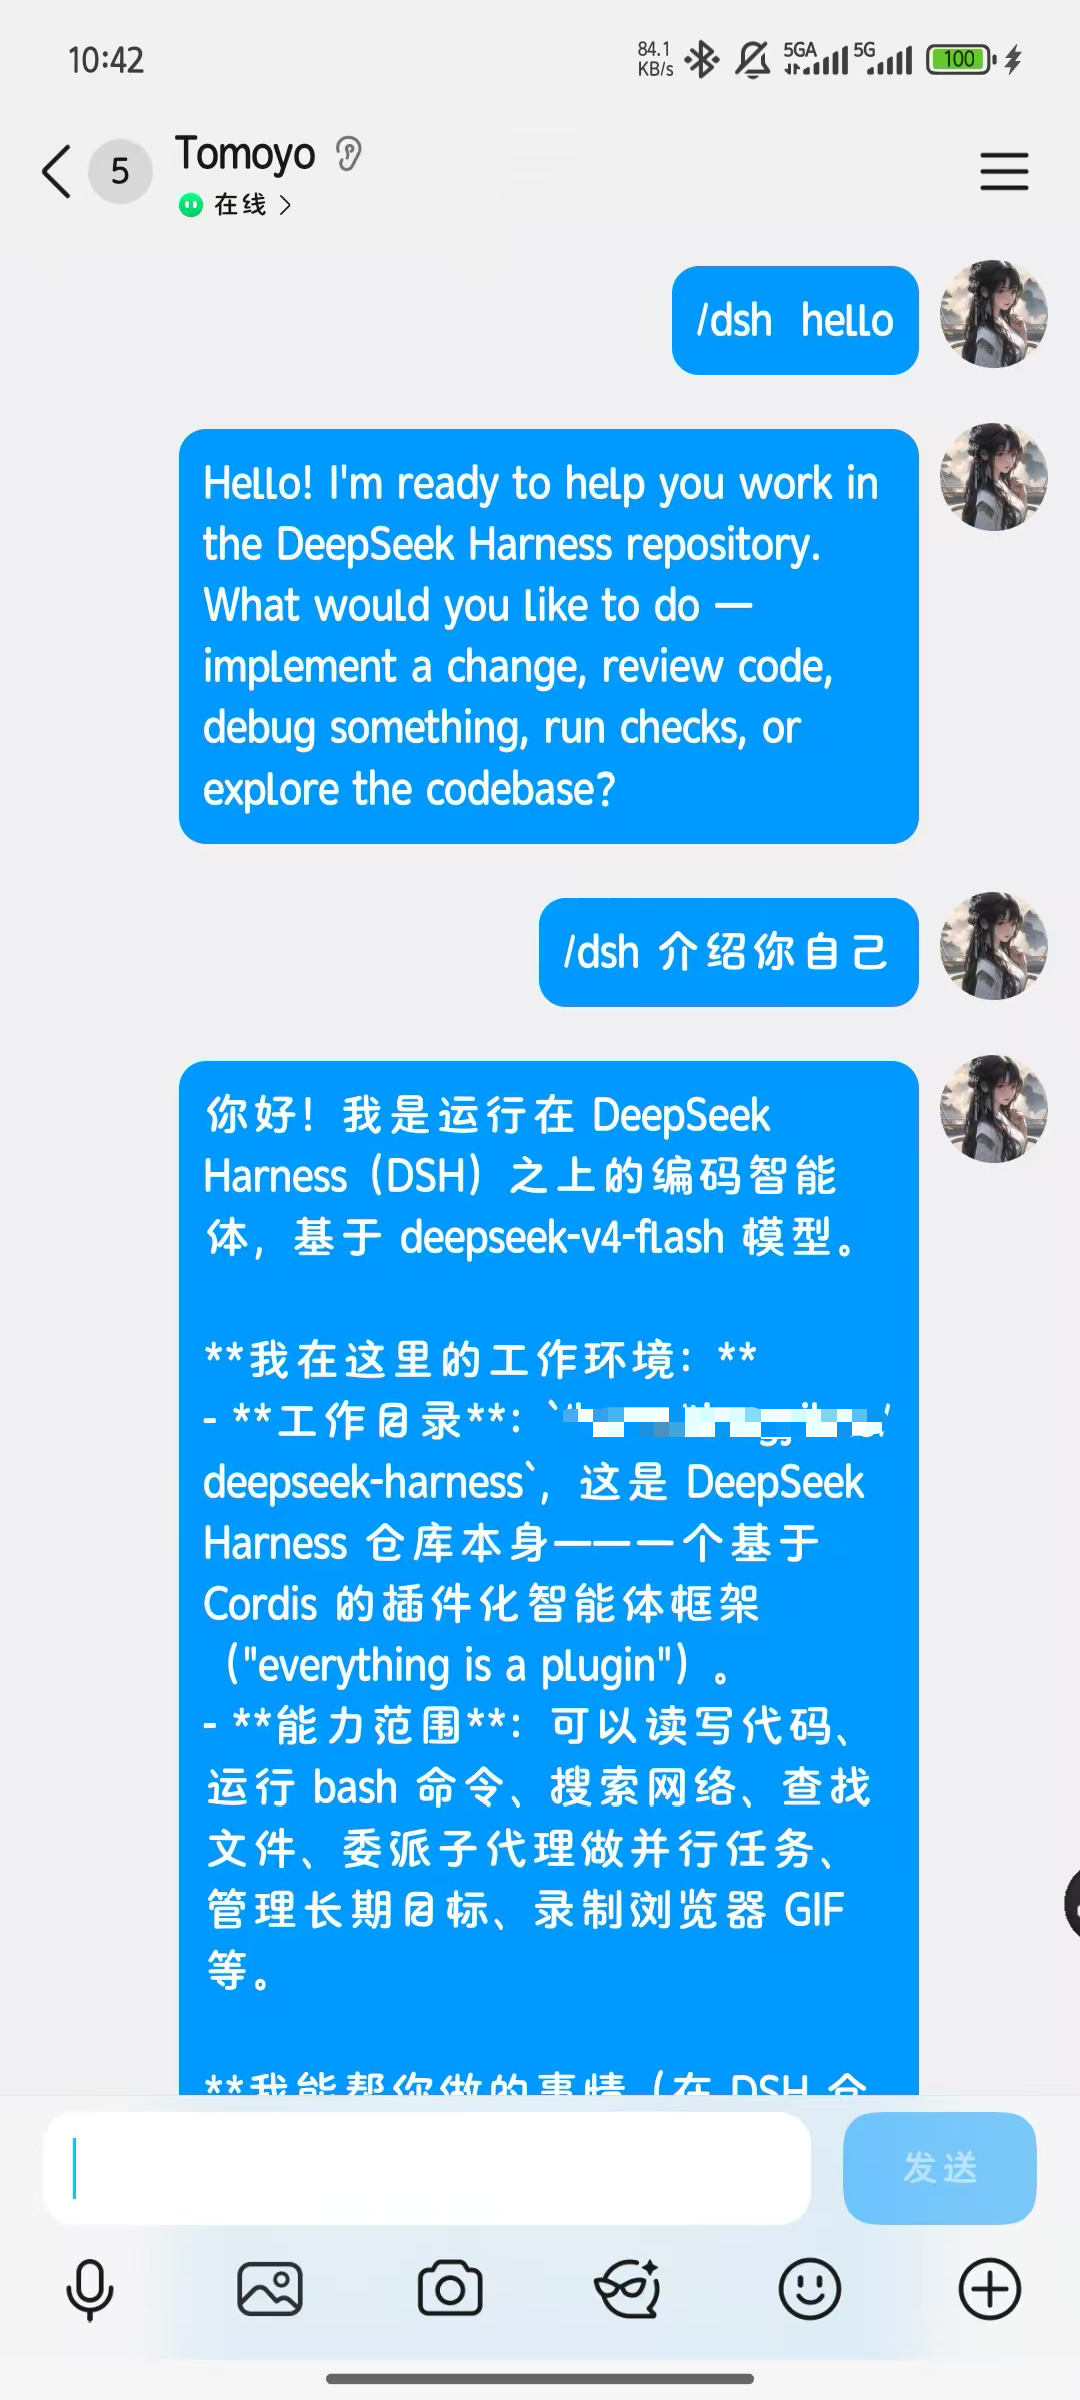
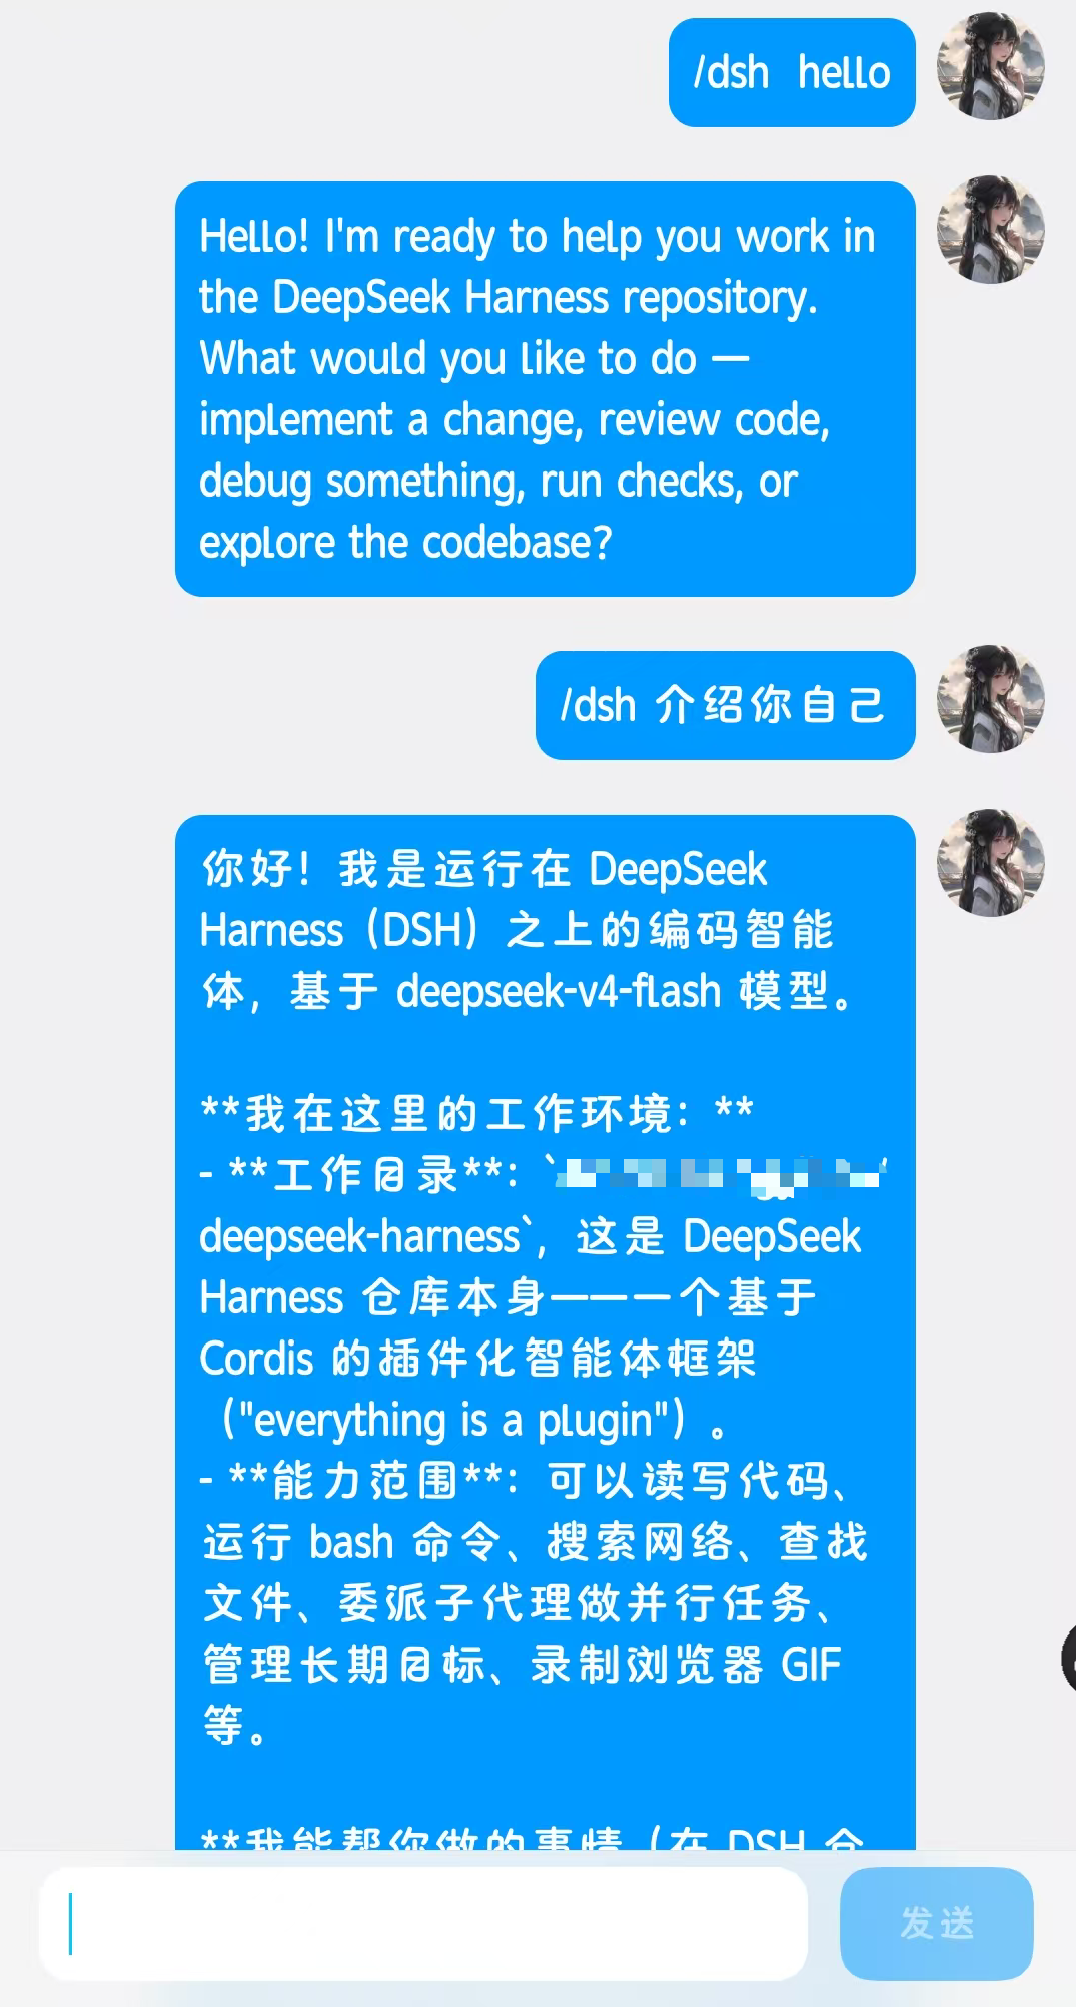
更新readme

diff --git a/README.md b/README.md
@@ -2,7 +2,7 @@
 
 ## 效果展示
 
-![QQ 验证成功截图](docs/asset/test1.png)
+<img src="docs/asset/test1.png" alt="QQ 验证成功截图" width="360">
 
 从 clone 到 QQ 遥控 DSH 的最短流程。目标是:
 
@@ -187,7 +187,107 @@ http://127.0.0.1:3080
 /dsh 列出当前工作目录下的目录和文件
 ```
 
-## 8. 停止 DSH
+## 8. 更改配置
+
+正式接入 DSH 时，主要改这个文件:
+
+```text
+~/.dsh/profiles/web/cordis.patch.yml
+```
+
+改完配置后需要**重启 DSH** 才会生效；只有改了本项目 `src/` 源码时，才需要重新执行 `npm run build`。
+
+### 更改调用的 DSH 模型
+
+修改 `agent.provider` 和 `agent.model`:
+
+```yaml
+agent:
+  provider: deepseek-official
+  model: deepseek-v4-pro
+  preset: standard
+```
+
+- `provider`:DSH 里已配置好的模型提供方。
+- `model`:该 provider 下的模型 id。
+- `preset`:DSH agent preset，通常保持 `standard` 即可。
+
+### 更改 QQ 指令前缀
+
+修改 `access.commandPrefix`:
+
+```yaml
+access:
+  adminQq: <你的QQ号>
+  allowlist: []
+  commandPrefix: /dsh
+  mode: whitelist
+```
+
+例如改成 `/ai` 后，QQ 里就要发送:
+
+```text
+/ai ping
+```
+
+如果开启了单号模式的 `selfLogInput`，它会复用同一个 `commandPrefix`，不需要额外改一处。
+
+### 更改允许使用机器人的 QQ
+
+只允许自己使用时:
+
+```yaml
+access:
+  adminQq: <你的QQ号>
+  allowlist: []
+  mode: whitelist
+```
+
+要额外允许其他 QQ 使用，把 QQ 号加到 `allowlist`:
+
+```yaml
+access:
+  adminQq: <你的QQ号>
+  allowlist: [10001, 10002]
+  mode: whitelist
+```
+
+不建议把 `mode` 改成 `open`，除非你明确知道风险。
+
+### 更改单号模式日志路径
+
+如果你用“我的电脑/自己给自己发消息”，保持:
+
+```yaml
+selfLogInput:
+  enabled: true
+  logPath: /home/<你的Linux用户名>/Napcat/log/napcat_<你的QQ号>.log
+  pollIntervalMs: 1000
+  replayOnStart: false
+```
+
+如果你是“主号发给机器人小号”，通常可以删除 `selfLogInput`，或改成:
+
+```yaml
+selfLogInput:
+  enabled: false
+```
+
+### 本地回显测试入口的配置
+
+只有运行 `bash scripts/start-local-echo.sh` 或 `npm start` 这种不接 DSH Agent 的本地测试入口时，才用环境变量改配置:
+
+```bash
+DSH_QQ_WS_URL=ws://127.0.0.1:3001 \
+DSH_QQ_ADMIN=<你的QQ号> \
+DSH_QQ_PREFIX=/dsh \
+DSH_QQ_SELF_LOG=true \
+npm start
+```
+
+正式使用 `pnpm dsh web` 时，以 `cordis.patch.yml` 为准。
+
+## 9. 停止 DSH
 
 如果是前台运行的 `pnpm dsh web`，在终端按:
 
@@ -209,7 +309,25 @@ kill <PID>
 
 这里要 kill 的是 `ps` 查到的实际进程 PID，不一定是 shell 打印的 job id。
 
-## 9. 常见问题
+## 10. 开源许可与致谢
+
+本项目使用 MIT License 发布，见 [`LICENSE`](LICENSE)。
+
+发布 release 时建议保留以下文件:
+
+- [`LICENSE`](LICENSE):本项目许可证。
+- [`THIRD_PARTY_NOTICES.md`](THIRD_PARTY_NOTICES.md):第三方依赖、协议与外部项目说明。
+
+本项目会连接或参考以下项目/协议:
+
+- [NapCatQQ](https://github.com/NapNeko/NapCatQQ):提供 QQ / OneBot 运行端点。本项目不打包、不修改、不再分发 NapCatQQ，只要求用户自行安装并运行。NapCatQQ 使用自定义的 Limited Redistribution License，若未来 release 中包含 NapCatQQ 文件，必须额外遵守其上游许可证与非商业/再分发限制。
+- [OneBot](https://github.com/botuniverse/onebot):聊天机器人接口标准，本项目通过 OneBot WebSocket 协议与 NapCat 通信。
+- [DeepSeek Harness / DSH](https://github.com/deepseek-ai/deepseek-harness):本插件运行所在的 Host / Agent 环境。
+- `ws`、`zod` 等 npm 依赖:详见 [`THIRD_PARTY_NOTICES.md`](THIRD_PARTY_NOTICES.md)。
+
+简单说:需要 mention。对 `ws`、`zod` 这类依赖，保留 package metadata 和 third-party notices 即可；对 NapCatQQ 这类没有打包进本仓库但对项目很关键的外部运行时，README 里做清晰致谢和边界说明最稳。
+
+## 11. 常见问题
 
 ### QQ 消息没回复
 

diff --git a/THIRD_PARTY_NOTICES.md b/THIRD_PARTY_NOTICES.md
@@ -1,0 +1,42 @@
+# Third-party notices
+
+This project is released under the MIT License. It interoperates with, or
+depends on, the following third-party projects.
+
+This notice is for attribution and release hygiene. It does not replace the
+license text or usage terms of the upstream projects.
+
+## Runtime dependencies
+
+| Project | Role | License |
+| --- | --- | --- |
+| ws | WebSocket client used to connect to OneBot/NapCat | MIT |
+| zod | Runtime configuration validation | MIT |
+
+## Development dependencies
+
+| Project | Role | License |
+| --- | --- | --- |
+| TypeScript | Type checking and build | Apache-2.0 |
+| Vitest | Test runner | MIT |
+| @types/node | Type definitions | MIT |
+| @types/ws | Type definitions | MIT |
+
+## External projects and protocols
+
+| Project | Role | Bundled in this repository? | License / terms |
+| --- | --- | --- | --- |
+| NapCatQQ | Optional QQ/OneBot runtime used by users to provide a OneBot WebSocket endpoint | No | Limited Redistribution License for NapCat |
+| OneBot | Chat bot protocol used for the bridge interface | No | MIT |
+| DeepSeek Harness (`dsh`) | Host application and agent runtime that loads this plugin | No | MIT |
+
+## Release notes
+
+- This repository does not include, modify, or redistribute NapCatQQ binaries
+  or source code. Users install and run NapCatQQ separately.
+- If a release package ever includes NapCatQQ files, its full upstream license
+  text and source/copyright information must be included, and the release must
+  comply with NapCatQQ's non-commercial and redistribution restrictions.
+- Do not commit QQ credentials, NapCat WebUI tokens, OneBot access tokens, or
+  DSH API keys into this repository or release archives.
+
